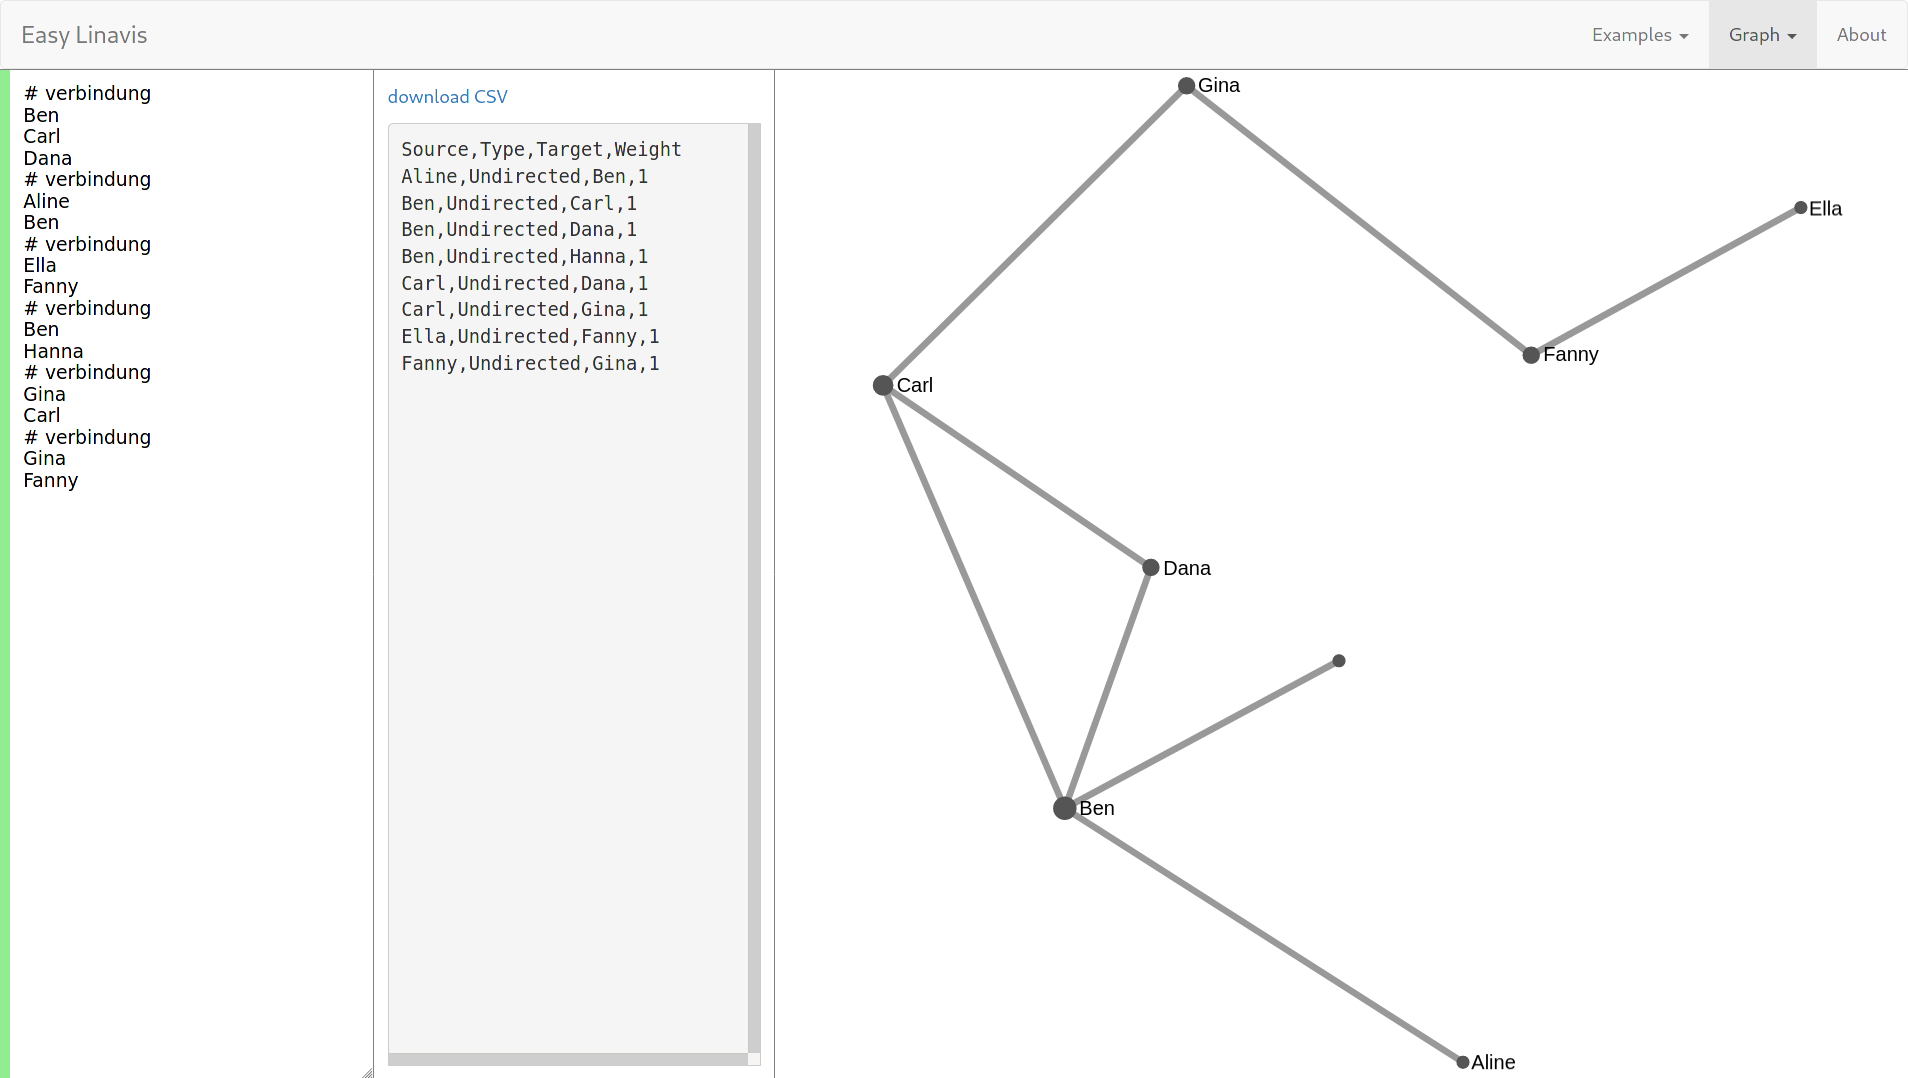
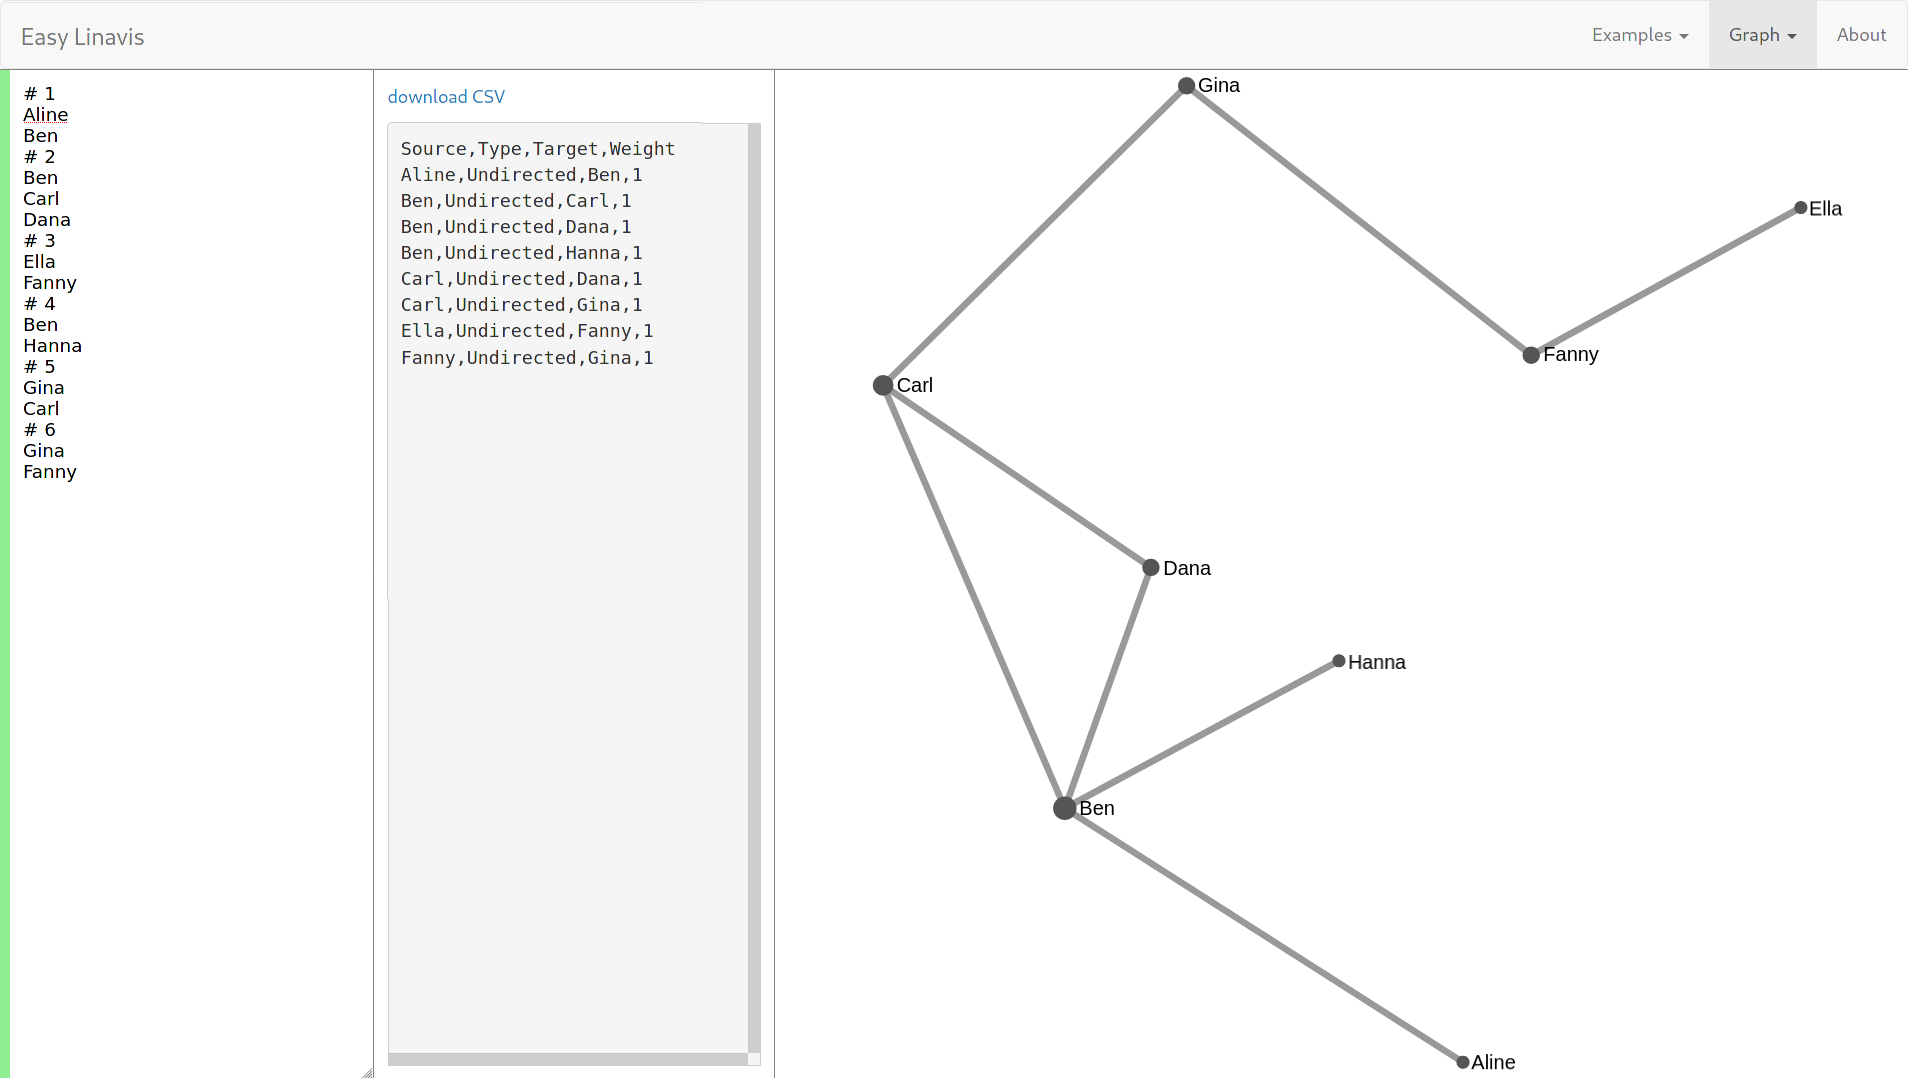
update slide set

diff --git a/2020-07-02-darmstadt-sna/index.html b/2020-07-02-darmstadt-sna/index.html
@@ -109,10 +109,9 @@ DARIAH-EU &nbsp; 🇪🇺 &nbsp; Board of Directors<!-- .element: style="font-si
 
 <br />
 
-- Landmassen= Knoten; Brücken = Kanten
-- genaue Lage der Brücken ist irrelevant!
-- Anzahl der Brücken und ihrer Endpunkte entscheidend für Lösung:
-  - alle vier Landmassen werden von einer ungeraden Anzahl von Brücken erreicht
+- Landmassen = Knoten; Brücken = Kanten
+- genaue Lage der Brücken für die Lösung irrelevant!
+- Anzahl der Brücken und ihrer Endpunkte ist entscheidend:
   - es sollte maximal zwei Landmassen (Knoten) mit einer ungeraden Anzahl von Brücken (Kanten) geben, die als Anfangs- und Endpunkt dienen
   - die beiden anderen Ufer müssten eine gerade Anzahl von Brücken aufweisen, die zu ihnen führen
 
@@ -123,16 +122,6 @@ DARIAH-EU &nbsp; 🇪🇺 &nbsp; Board of Directors<!-- .element: style="font-si
 <br />
 
 »… untersucht soziale Strukturen mit Hilfe der Netzwerk- und Graphentheorie.« ([engl. Wikipedia](https://en.wikipedia.org/wiki/Social_network_analysis))
-
---
-
-### Die Soziale Netzwerkanalyse (SNA) …
-
-<br />
-
-- … wurde in den Sozialwissenschaften seit den 1930er-Jahren entwickelt
-- »Harvard-Durchbruch« (1960er-Jahre): Soziologen, Mathematiker und Programmierer entwickeln eine strukturanalytische Perspektive auf soziale Phänomene (Harrison White u.&nbsp;a.)
-- 1990er-Jahre: neuer Blick auf Netzwerkstrukturen mit dem Aufkommen des Internets, mittlerweile auch verstärkt in den Geisteswissenschaften
 
 --
 
@@ -161,7 +150,6 @@ DARIAH-EU &nbsp; 🇪🇺 &nbsp; Board of Directors<!-- .element: style="font-si
 ### <br />Graphbasierte Werte
 
 - Netzwerkgröße
-- Durchmesser
 - […]
 
 --
@@ -170,15 +158,15 @@ DARIAH-EU &nbsp; 🇪🇺 &nbsp; Board of Directors<!-- .element: style="font-si
 
 ![Vier Knoten](images/four_nodes.png)<!-- .element height="400px;" -->
 
-Geben Sie an: (a) Grad des mittleren Knotens, (b) Grad der äußeren Knoten, (c) Pfadlänge zwischen zwei äußeren Knoten, (d)&nbsp;Netzwerkgröße, (e) Durchmesser?
+Geben Sie an: (a) Grad des mittleren Knotens, (b) Grad der äußeren Knoten, (c) Pfadlänge zwischen zwei äußeren Knoten, (d)&nbsp;Netzwerkgröße?
 
 ---
 
 ### Netzwerke händisch extrahieren »ezlinavis«
 
-![Screenshot von ezlinavis](images/ezlinavis-screenshot-brecht.png)<!-- .element height="450px;" -->
+![Screenshot von ezlinavis](images/ezlinavis-screenshot-brecht.png)<!-- .element height="400px;" -->
 
-https://ezlinavis.dracor.org/
+Linke Spalte: Eingabefenster. – Mittlere Spalte: Automatisch generierte Kantendaten. – Rechte Spalte: Interaktive Visualisierung.
 
 ---
 
@@ -204,23 +192,23 @@ https://ezlinavis.dracor.org/
 <br />
 
 ```
-# verbindung
+# 1
 Aline
 Ben
-# verbindung
+# 2
 Ben
 Carl
 Dana
-# verbindung
+# 3
 Ella
 Fanny
-# verbindung
+# 4
 Ben
 Hanna
-# verbindung
+# 5
 Gina
 Carl
-# verbindung
+# 6
 Gina
 Fanny
 ```
@@ -256,7 +244,14 @@ Fanny
 - historische Beispiele:
   - Zacharys Karateklub
   - Hochzeitspolitik der Medici
-- Analyse mit Gephi und Cytoscape
+
+--
+
+### Gamification!
+
+![Dramenquartett](images/dramenquartett-vier-karten.jpg)<!-- .element height="450px;" -->
+
+<small>Frank Fischer/Anika Schultz: **[Dramenquartett. Eine didaktische Intervention.](http://www.etkbooks.com/dramenquartett/)** <br />Bern: edition taberna kritika 2019. Spielregeln: https://dramenquartett.github.io/</small>
 
 --
 
